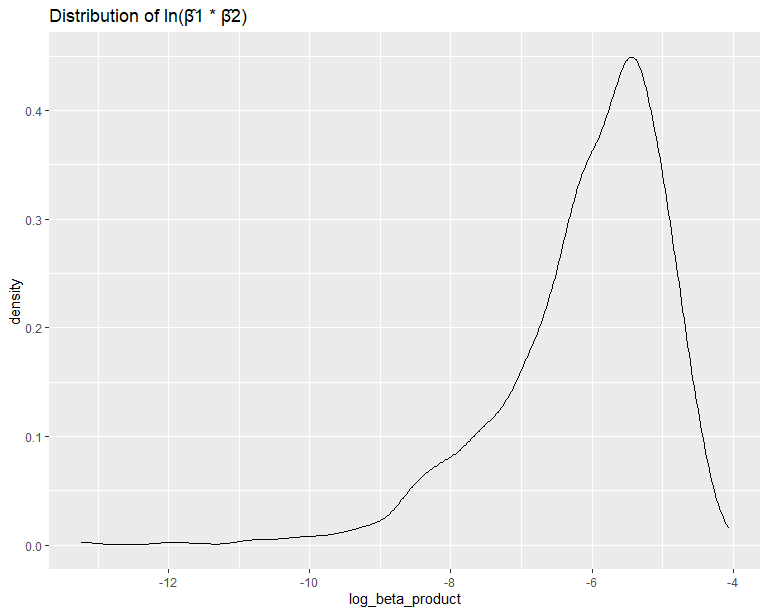
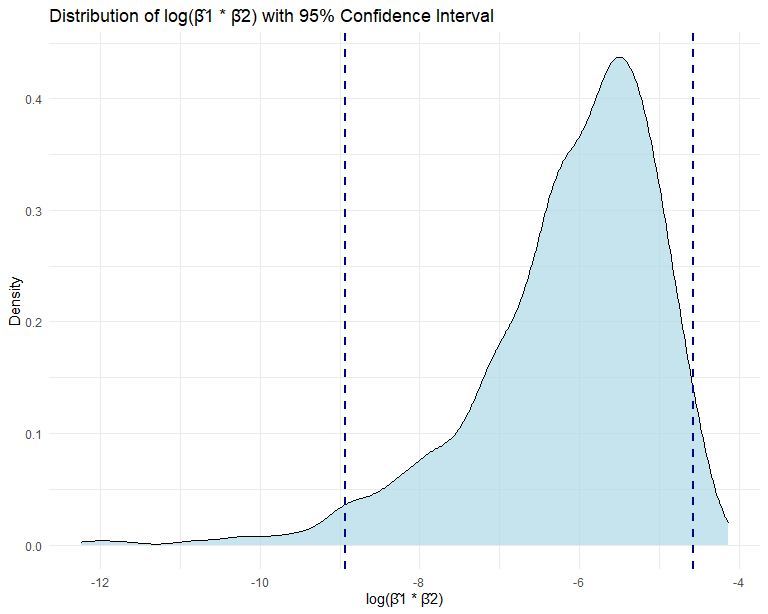
finish comparison in terms of the cross-validated prediction error

diff --git a/p8105_hw6_yw4251.md b/p8105_hw6_yw4251.md
@@ -91,13 +91,13 @@ bootstrap_analysis=
   unnest(c(log_beta_product, r.squared))
 ```
 
-    ## Warning: There were 3339 warnings in `mutate()`.
+    ## Warning: There were 3354 warnings in `mutate()`.
     ## The first warning was:
     ## ℹ In argument: `log_beta_product = map(result, ~log(.x$estimate[2] *
     ##   .x$estimate[3]))`.
     ## Caused by warning in `log()`:
     ## ! NaNs produced
-    ## ℹ Run `dplyr::last_dplyr_warnings()` to see the 3338 remaining warnings.
+    ## ℹ Run `dplyr::last_dplyr_warnings()` to see the 3353 remaining warnings.
 
 ``` r
 bootstrap_analysis
@@ -106,52 +106,174 @@ bootstrap_analysis
     ## # A tibble: 5,000 × 5
     ##    strap                .id   models log_beta_product r.squared
     ##    <list>               <chr> <list>            <dbl>     <dbl>
-    ##  1 <resample [365 x 6]> 0001  <lm>                NaN     0.903
-    ##  2 <resample [365 x 6]> 0002  <lm>                NaN     0.896
-    ##  3 <resample [365 x 6]> 0003  <lm>                NaN     0.934
-    ##  4 <resample [365 x 6]> 0004  <lm>                NaN     0.919
-    ##  5 <resample [365 x 6]> 0005  <lm>                NaN     0.926
-    ##  6 <resample [365 x 6]> 0006  <lm>                NaN     0.931
-    ##  7 <resample [365 x 6]> 0007  <lm>                NaN     0.943
-    ##  8 <resample [365 x 6]> 0008  <lm>                NaN     0.921
-    ##  9 <resample [365 x 6]> 0009  <lm>                NaN     0.935
-    ## 10 <resample [365 x 6]> 0010  <lm>                NaN     0.911
+    ##  1 <resample [365 x 6]> 0001  <lm>             NaN        0.931
+    ##  2 <resample [365 x 6]> 0002  <lm>             NaN        0.907
+    ##  3 <resample [365 x 6]> 0003  <lm>             NaN        0.924
+    ##  4 <resample [365 x 6]> 0004  <lm>             NaN        0.903
+    ##  5 <resample [365 x 6]> 0005  <lm>             NaN        0.901
+    ##  6 <resample [365 x 6]> 0006  <lm>             NaN        0.931
+    ##  7 <resample [365 x 6]> 0007  <lm>             NaN        0.928
+    ##  8 <resample [365 x 6]> 0008  <lm>             NaN        0.905
+    ##  9 <resample [365 x 6]> 0009  <lm>              -6.45     0.918
+    ## 10 <resample [365 x 6]> 0010  <lm>             NaN        0.926
     ## # ℹ 4,990 more rows
 
 Estimate of R^2.
 
 ``` r
-quantile(bootstrap_analysis$r.squared,c(0.025, 0.975))
+quantiles=quantile(bootstrap_analysis$r.squared,c(0.025, 0.975))
+quantiles
 ```
 
     ##      2.5%     97.5% 
-    ## 0.8899231 0.9401700
+    ## 0.8889019 0.9402751
 
 ``` r
 ggplot(bootstrap_analysis,aes(r.squared))+
-  geom_density()+
-  labs(title = "Distribution of R Square")
+  geom_density(fill = "#ADD8E6", alpha = 0.7)+
+  geom_vline(xintercept = quantiles[1], linetype = "dashed", color = "#00008B", size = 1) +
+  geom_vline(xintercept = quantiles[2], linetype = "dashed", color = "#00008B", size = 1) +
+  labs(
+    title = "Distribution of R Squared with 95% Confidence Interval",
+    x = "R Squared",
+    y = "Density"
+  )+
+  theme_minimal()
 ```
+
+    ## Warning: Using `size` aesthetic for lines was deprecated in ggplot2 3.4.0.
+    ## ℹ Please use `linewidth` instead.
+    ## This warning is displayed once every 8 hours.
+    ## Call `lifecycle::last_lifecycle_warnings()` to see where this warning was
+    ## generated.
 
 <img src="p8105_hw6_yw4251_files/figure-gfm/unnamed-chunk-4-1.png" width="90%" />
 
-0.6678 portion of them are NA.
+0.6708 portion of log(β̂1 \* β̂2) are NA, in which case product of β̂1 and
+β̂2 are less than 0 (β̂2 mainly).
 
 ``` r
-quantile(bootstrap_analysis$log_beta_product,c(0.025, 0.975),na.rm=TRUE)
+quantiles=quantile(bootstrap_analysis$log_beta_product,c(0.025, 0.975),na.rm=TRUE)
+quantiles
 ```
 
     ##      2.5%     97.5% 
-    ## -8.787544 -4.558707
+    ## -8.936870 -4.572972
 
 ``` r
 ggplot(bootstrap_analysis,aes(log_beta_product))+
-  geom_density()+
-  labs(title = "Distribution of ln(β̂1 * β̂2)")
+  geom_density(fill = "#ADD8E6", alpha = 0.7)+
+  geom_vline(xintercept = quantiles[1], linetype = "dashed", color = "#00008B", size = 1) +
+  geom_vline(xintercept = quantiles[2], linetype = "dashed", color = "#00008B", size = 1) +
+  labs(
+    title = "Distribution of log(β̂1 * β̂2) with 95% Confidence Interval",
+    x = "log(β̂1 * β̂2)",
+    y = "Density"
+    )+
+  theme_minimal()
 ```
 
-    ## Warning: Removed 3339 rows containing non-finite values (`stat_density()`).
+    ## Warning: Removed 3354 rows containing non-finite values (`stat_density()`).
 
 <img src="p8105_hw6_yw4251_files/figure-gfm/unnamed-chunk-5-1.png" width="90%" />
 
 # Problem 3
+
+Load and tidy the dataset.
+
+``` r
+bw=read_csv("data/birthweight.csv")|>
+  janitor::clean_names()|>
+  mutate(babysex=as.factor(babysex),
+         frace=as.factor(frace),
+         malform=as.factor(malform),
+         mrace=as.factor(mrace))
+```
+
+    ## Rows: 4342 Columns: 20
+    ## ── Column specification ────────────────────────────────────────────────────────
+    ## Delimiter: ","
+    ## dbl (20): babysex, bhead, blength, bwt, delwt, fincome, frace, gaweeks, malf...
+    ## 
+    ## ℹ Use `spec()` to retrieve the full column specification for this data.
+    ## ℹ Specify the column types or set `show_col_types = FALSE` to quiet this message.
+
+``` r
+anyNA(bw)
+```
+
+    ## [1] FALSE
+
+``` r
+bw
+```
+
+    ## # A tibble: 4,342 × 20
+    ##    babysex bhead blength   bwt delwt fincome frace gaweeks malform menarche
+    ##    <fct>   <dbl>   <dbl> <dbl> <dbl>   <dbl> <fct>   <dbl> <fct>      <dbl>
+    ##  1 2          34      51  3629   177      35 1        39.9 0             13
+    ##  2 1          34      48  3062   156      65 2        25.9 0             14
+    ##  3 2          36      50  3345   148      85 1        39.9 0             12
+    ##  4 1          34      52  3062   157      55 1        40   0             14
+    ##  5 2          34      52  3374   156       5 1        41.6 0             13
+    ##  6 1          33      52  3374   129      55 1        40.7 0             12
+    ##  7 2          33      46  2523   126      96 2        40.3 0             14
+    ##  8 2          33      49  2778   140       5 1        37.4 0             12
+    ##  9 1          36      52  3515   146      85 1        40.3 0             11
+    ## 10 1          33      50  3459   169      75 2        40.7 0             12
+    ## # ℹ 4,332 more rows
+    ## # ℹ 10 more variables: mheight <dbl>, momage <dbl>, mrace <fct>, parity <dbl>,
+    ## #   pnumlbw <dbl>, pnumsga <dbl>, ppbmi <dbl>, ppwt <dbl>, smoken <dbl>,
+    ## #   wtgain <dbl>
+
+The dataset contains 4342 observations across 20 variables with no
+missing values. In the investigation, i want to investigate the impact
+of several key factors on the weight of a newborn, as measured in grams
+(bwt): the sex of the baby, the weight of the mother at the time of
+delivery in pounds, the family’s monthly income, the gestational age in
+weeks, the presence or absence of malformations, the age of the mother
+at the time of delivery, the races of the mother and father, the average
+number of cigarettes the mother smoked daily during pregnancy, and the
+weight gained by the mother during pregnancy in pounds. My investigation
+aims to elucidate how these variables collectively influence the birth
+weight of a child. This approach aligns with established research
+`Factors Affecting Birth Weight of a Newborn – A Community Based Study in Rural Karnataka, India`[https://www.ncbi.nlm.nih.gov/pmc/articles/PMC3390317/](Metgud%20et%20al,%202012).
+
+``` r
+lm(bwt~babysex+delwt+fincome+gaweeks+malform+momage+mrace+frace+smoken+wtgain,data=bw)|>
+  summary()
+```
+
+    ## 
+    ## Call:
+    ## lm(formula = bwt ~ babysex + delwt + fincome + gaweeks + malform + 
+    ##     momage + mrace + frace + smoken + wtgain, data = bw)
+    ## 
+    ## Residuals:
+    ##      Min       1Q   Median       3Q      Max 
+    ## -1694.77  -253.07     7.72   270.35  1540.55 
+    ## 
+    ## Coefficients:
+    ##              Estimate Std. Error t value Pr(>|t|)    
+    ## (Intercept)  419.6784    95.3148   4.403 1.09e-05 ***
+    ## babysex2     -86.1347    12.8324  -6.712 2.16e-11 ***
+    ## delwt          4.8062     0.3262  14.736  < 2e-16 ***
+    ## fincome        0.3625     0.2761   1.313   0.1892    
+    ## gaweeks       52.8274     2.0984  25.175  < 2e-16 ***
+    ## malform1     -47.4860   109.1892  -0.435   0.6637    
+    ## momage         0.4506     1.8498   0.244   0.8076    
+    ## mrace2      -169.8830    71.1964  -2.386   0.0171 *  
+    ## mrace3       -38.7588   111.1509  -0.349   0.7273    
+    ## mrace4       -48.0343    69.5759  -0.690   0.4900    
+    ## frace2      -117.8697    71.2985  -1.653   0.0984 .  
+    ## frace3       -46.7950   107.1439  -0.437   0.6623    
+    ## frace4       -92.3418    69.0371  -1.338   0.1811    
+    ## frace8       -22.0401   114.4987  -0.192   0.8474    
+    ## smoken       -11.8459     0.8963 -13.217  < 2e-16 ***
+    ## wtgain         5.1539     0.6589   7.822 6.47e-15 ***
+    ## ---
+    ## Signif. codes:  0 '***' 0.001 '**' 0.01 '*' 0.05 '.' 0.1 ' ' 1
+    ## 
+    ## Residual standard error: 421.4 on 4326 degrees of freedom
+    ## Multiple R-squared:  0.3254, Adjusted R-squared:  0.323 
+    ## F-statistic: 139.1 on 15 and 4326 DF,  p-value: < 2.2e-16
